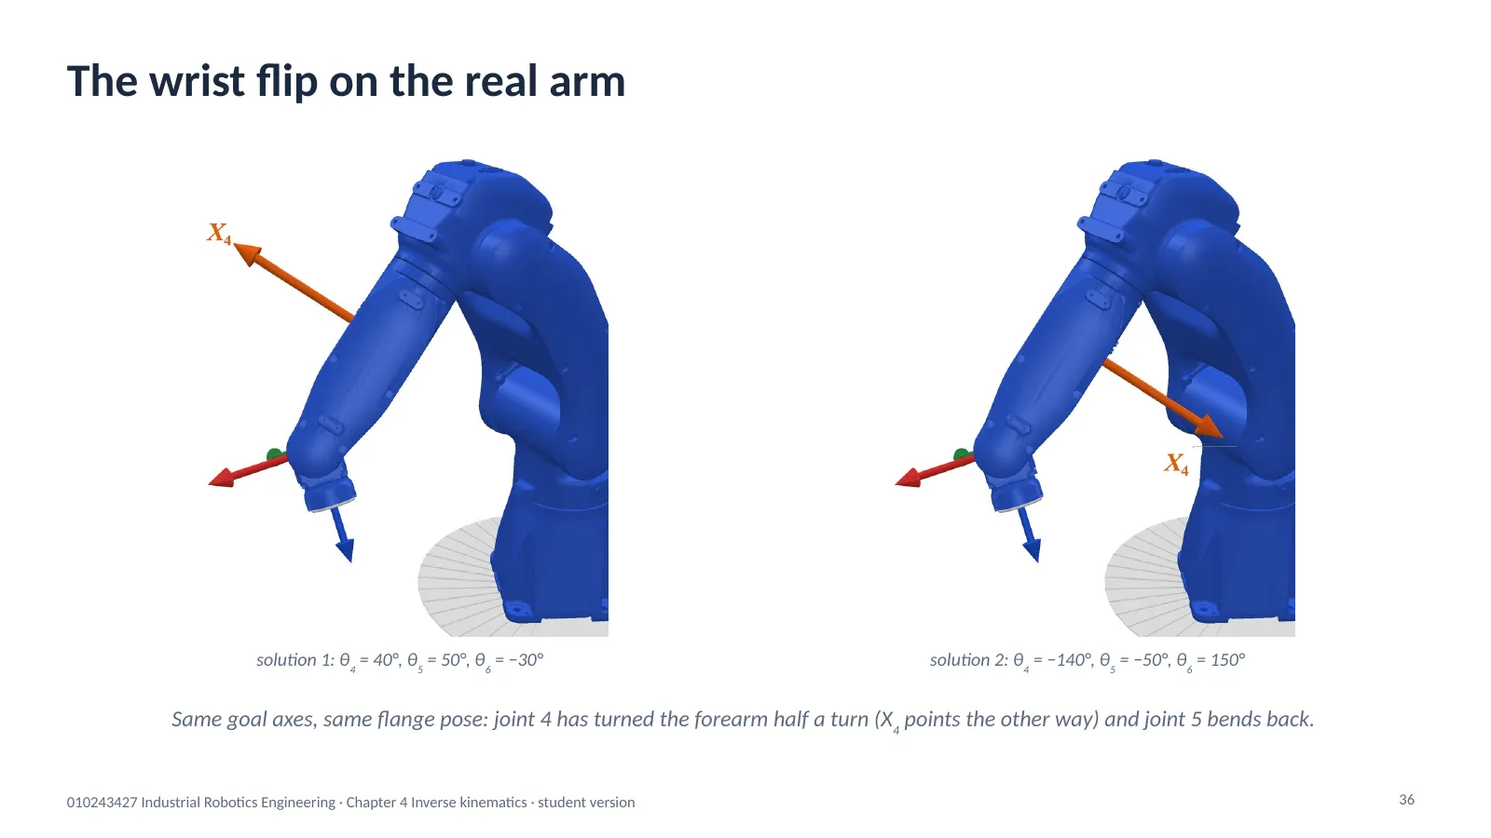
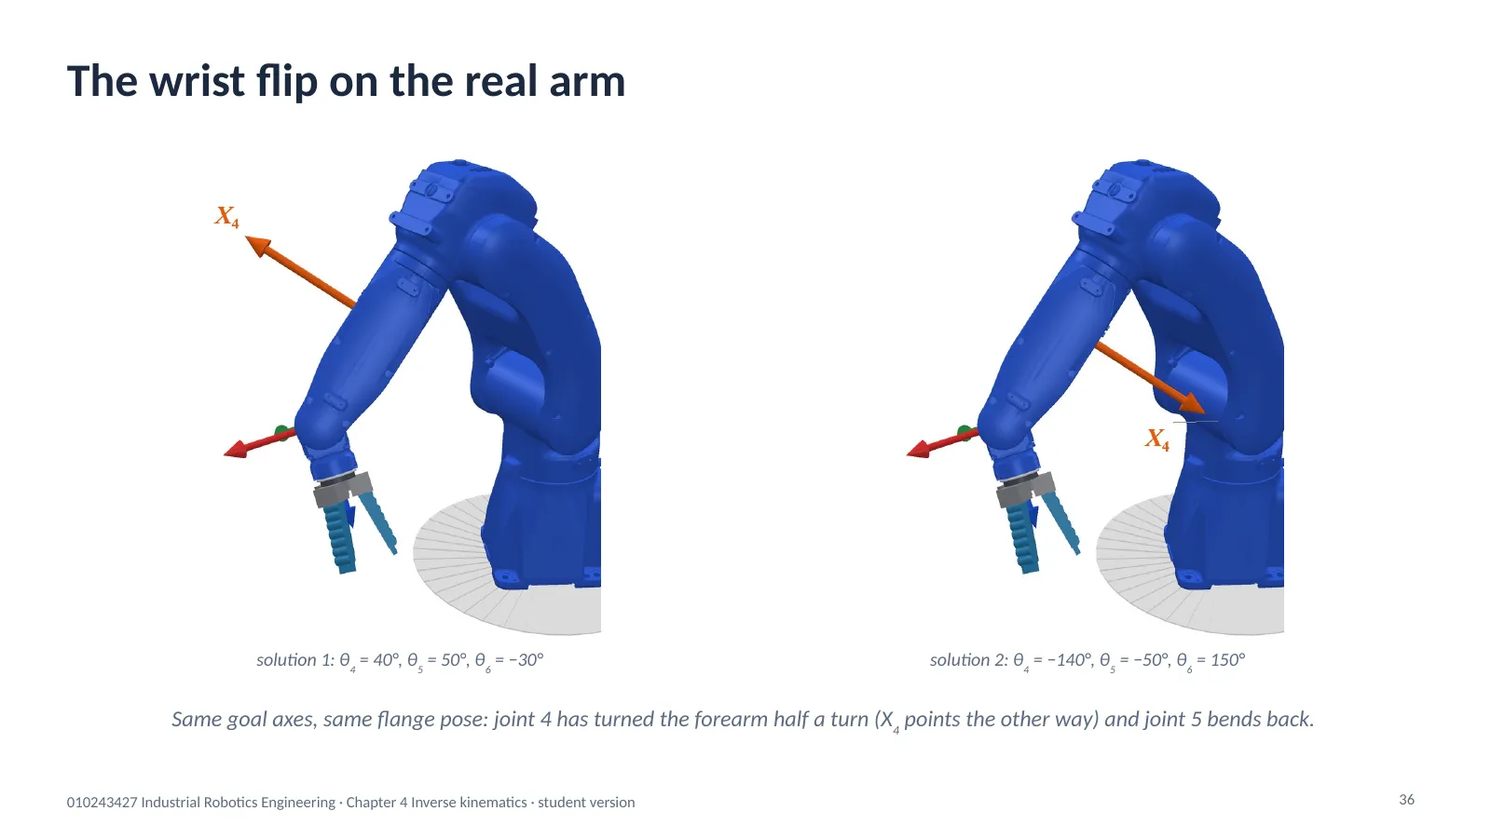
The GP8 carries a soft three-finger gripper
- scene3d.js: S3.softGrip, the course's own model of a soft gripper (grey
  holder, three blue bellows fingers; open, curl, size), shared by the live
  views and the slide renders
- the GP8 simulations of chapters 3 and 4 draw it instead of the two-finger
  gripper; on page 4.4 it ends at the tool point
- slide pictures of chapters 1, 2 and 4 re-exported: the GP8 with the gripper,
  the tool frame at the fingertips, a fifth end-effector on the chapter 1 slide
- tests: 203, ALL PASS; cache tag v=18

Changed region(s): [[0.125, 0.1867, 0.4062, 0.7778], [0.5938, 0.1867, 0.875, 0.7778]]

diff --git a/assets/scene3d.js b/assets/scene3d.js
@@ -56,6 +56,24 @@ S3.arcV = (s, o, r, a0, a1, c, tr = 0.005, n = 24) => tube(s, Array.from({ lengt
 const rj = S3.rj = (s, p, ax, o = {}) => { const r = o.r || 0.056, h = o.h || 0.07; cyl(s, v(p, ax, -h), v(p, ax, h), r, o.c || s.pal.joint, o.al); cyl(s, v(p, ax, -h - 0.012), v(p, ax, h + 0.012), r * 0.42, s.pal.cap, o.al); };
 S3.pj = (s, p, d, o = {}) => box(s, v(p, d, -(o.len || 0.075)), v(p, d, o.len || 0.075), o.w || 0.085, o.w || 0.085, s.pal.sleeve, o.al, o.up);
 const grip = S3.grip = (s, p, d, sd, o = {}) => { const w = o.w || 0.045, L = o.L || 0.085, c = o.c || s.pal.ink, a = v(p, sd, -w), b = v(p, sd, w); box(s, a, b, 0.024, 0.03, c, o.al); [a, b].forEach(q => box(s, q, v(q, d, L), 0.018, 0.03, c, o.al)); };
+/* a soft gripper: three air-driven bellows fingers on a grey holder (the user asked for this kind on the GP8, 15 Nov 2026), built from boxes and cylinders.
+   p the mounting point (centre of the flange), d the tool direction, sd any direction across it. o.k size (1 = tool point 0.12 m from p),
+   o.n fingers, o.open splay of the fingers outwards in degrees, o.curl bend of each finger towards the axis in degrees (closing on a part),
+   o.tip: p is the tool point between the fingertips instead of the mounting point, o.al see-through. Returns { mount, tip }. */
+const SOFT = S3.SOFT = { blue: [0.15, 0.46, 0.65], grey: [0.5, 0.51, 0.53], dark: [0.27, 0.29, 0.32], LEN: 0.12 };
+S3.softGrip = (s, p, d, sd, o = {}) => { const k = o.k || 1, n = o.n || 3, al = o.al, op = rad(o.open === undefined ? 12 : o.open), cu = rad(o.curl || 0) , N = 7;
+  d = un(d); const e1 = un(cr(cr(d, sd), d)), e2 = cr(d, e1), H = 0.034 * k, R = 0.027 * k, Lf = 0.088 * k, sg = Lf / N, wd = 0.024 * k, th = 0.012 * k, m = o.tip ? v(p, d, -SOFT.LEN * k) : p;
+  cyl(s, m, v(m, d, 0.008 * k), 0.026 * k, SOFT.dark, al); cyl(s, v(m, d, 0.008 * k), v(m, d, 0.024 * k), 0.02 * k, SOFT.grey, al);   // adapter plate on the flange, hub
+  for (let i = 0; i < n; i++) { const a = 2 * PI * i / n + rad(o.turn || 0), out = [0, 1, 2].map(j => e1[j] * cos(a) + e2[j] * sin(a)), side = cr(d, out);
+    box(s, v(m, d, 0.016 * k), v(v(m, d, 0.016 * k), out, R), 0.022 * k, 0.016 * k, SOFT.grey, al, d);                                // arm from the hub to the finger holder
+    box(s, v(v(m, d, 0.008 * k), out, R + 0.002 * k), v(v(m, d, H), out, R + 0.002 * k), 0.036 * k, 0.031 * k, SOFT.grey, al, out);                             // the holder: a grey block over the finger's root
+    let q = v(v(m, d, H), out, R), t = [0, 1, 2].map(j => d[j] * cos(op) + out[j] * sin(op)), nn = [0, 1, 2].map(j => out[j] * cos(op) - d[j] * sin(op));
+    for (let j = 0; j < N; j++) { const b = v(q, t, sg), mid = v(q, t, sg / 2), f = 1 - 0.32 * j / N, top = v(mid, nn, th * f * 0.5);
+      box(s, q, b, wd, th * f, SOFT.blue, al, nn);                                                                                    // the flat inner strip that touches the part
+      cyl(s, v(top, side, -wd / 2), v(top, side, wd / 2), sg * 0.5 * f + 0.002 * k, SOFT.blue, al);                                 // one fold of the bellows on the outer side
+      q = b; if (cu) { const c = cu / N, t2 = [0, 1, 2].map(i2 => t[i2] * cos(c) - nn[i2] * sin(c)); nn = [0, 1, 2].map(i2 => nn[i2] * cos(c) + t[i2] * sin(c)); t = t2; } }
+    box(s, q, v(q, t, 0.012 * k), wd, th * 0.55, SOFT.blue, al, nn); }                                                                // the fingertip pad
+  return { mount: m, tip: v(m, d, SOFT.LEN * k) }; };
 const pedestal = S3.pedestal = (s, p, h, r = 0.085) => { cyl(s, [p[0], p[1], 0], [p[0], p[1], 0.03], r * 1.7, s.pal.base); cyl(s, [p[0], p[1], 0.03], [p[0], p[1], h], r * 0.75, s.pal.base); shadow(s, [p[0], p[1], 0.02], [p[0], p[1], 0.021], r * 1.7); };
 const mesh = S3.mesh = (s, quads, c, al) => { const vv = [], ii = []; quads.forEach(q => { const n = vv.length / 3; q.forEach(p => vv.push(p[0], p[1], p[2])); ii.push(n, n + 1, n + 2, n, n + 2, n + 3); }); if (ii.length) add(s, { t: 'mesh', v: vv, i: ii, c, al }); };
 /* a smooth surface: a grid of shared vertices, f(u, w) → point for u, w in 0…1 */

diff --git a/assets/ch3_3d.js b/assets/ch3_3d.js
@@ -30,7 +30,7 @@ const drawDH = CH3.drawDH = (s, rows, F, op = {}) => { const n = rows.length, fl
   fr.forEach(i => { const O = P(F[i]); [0, 2].concat(op.y ? [1] : []).forEach(j => { arrow(s, O, v(O, col(F[i], j), fl), axc(s, j), 0.0045);
       if (op.lab !== false) lab(s, v(O, col(F[i], j), fl + 0.04), 'XYZ'[j], { sub: String(i), m: 1, c: 'xyz'[j], s: op.ls || 28, a: 'c', dy: 10, ...((op.labAt && op.labAt[i] && op.labAt[i][j]) || {}) }); });
     sph(s, O, 0.011, s.pal.ink); if (op.tags) lab(s, O, `{${i}}`, { s: 26, a: 'r', dx: -12, dy: 30, ...((op.tagAt && op.tagAt[i]) || {}) }); });
-  if (op.grip) { const E = F[n], d = col(E, op.grip === 'z' ? 2 : 0), sd = col(E, 1); grip(s, P(E), d, sd, { w: 0.03, L: 0.06, al: op.al }); }
+  if (op.grip) { const E = F[n], d = col(E, op.grip === 'z' ? 2 : 0), sd = col(E, 1); if (op.soft) S3.softGrip(s, P(E), d, sd, { k: 0.8, al: op.al }); else grip(s, P(E), d, sd, { w: 0.03, L: 0.06, al: op.al }); }   // soft: the GP8's three-finger soft gripper
   if (op.show) { const k = op.show, r = rows[k - 1], Op = P(F[k - 1]), Xp = col(F[k - 1], 0), Zp = col(F[k - 1], 2), Ok = P(F[k]), Zk = col(F[k], 2), Xk = col(F[k], 0), Q = v(Op, Xp, r.a);
     const m1 = dim(s, Op, Q, C.am, RB.sc(Zp, -0.06)); if (m1) lab(s, m1, 'a', { sub: (k - 1) + '', m: 1, c: 'am', s: 34, a: 'c', dy: 36 });
     const m2 = dim(s, Q, Ok, C.p, RB.sc(Xp, -0.07)); if (m2) lab(s, m2, 'd', { sub: k + '', m: 1, c: 'p', s: 34, a: 'r', dx: -14 });
@@ -49,7 +49,7 @@ const EXV = { p3r: { T0: [0, 0, 0.11], cam: [[0.35, 0.3, 0.05], 3.0, -90, 58], g
   twist: { T0: [0, 0, 0.35], cam: [[0.3, 0.1, 0.4], 3.2, -62, 20], grip: 'x', base: true },
   arm4: { T0: [0, 0, 0], cam: [[0.35, 0.1, 0.45], 3.6, -62, 18], grip: 'x', base: false },
   scara: { T0: [0, 0, 0.6], cam: [[0.3, 0.15, 0.35], 3.4, -60, 22], grip: 'z', base: true },
-  gp8: { T0: [0, 0, 0.33], cam: [[0.22, 0, 0.5], 4.0, -60, 16], grip: 'z', base: true } };
+  gp8: { T0: [0, 0, 0.33], cam: [[0.22, 0, 0.5], 4.0, -60, 16], grip: 'z', soft: true, base: true } };
 CH3.EXV = EXV;   // chapter 4 shows the same arms
 /* the frames of example `ex` (CH3.EX) at joint values q, in world coordinates */
 CH3.exFrames = (ex, q, conv) => { const E = CH3.EX[ex === 'rprHW' ? 'rpr' : ex], L = E.L, rows = ex === 'rprHW' ? E.hwRows(L) : conv === 'c' ? E.rowsC(L) : E.rows(L), V = EXV[ex];
@@ -61,7 +61,7 @@ const armPts = (F, T0, grip) => { const E = F[F.length - 1], g = grip ? v(P(E), 
 SC.dh = (st = {}, o = {}) => { const ex = st.ex || 'p3r', V = EXV[ex], q = st.q || CH3.EX[ex === 'rprHW' ? 'rpr' : ex].q, c0 = V.cam, w = st.w || 1300, h = st.h || 1000;
   const { rows, F } = CH3.exFrames(ex, st.tool ? [...q, 0] : q, st.conv);   // st.fit (the pages): the camera follows the arm, which the sliders can swing anywhere
   const s = scene(st.name || 'dh_' + ex, w, h, st.fit ? camFit(st, armPts(F, V.T0, V.grip), c0[2], c0[3], w, h, { m: 0.16, minD: 2.4 }) : cam(st, c0[0], c0[1], c0[2], c0[3]), o); floor(s, 1.3, [c0[0][0], c0[0][1]]); if (V.base) pedestal(s, [V.T0[0], V.T0[1]], V.T0[2] - 0.02, 0.09);
-  drawDH(s, rows, F, { frames: st.frames, lab: st.lab, tags: !!st.tags, show: st.show, grip: st.grip === false ? null : V.grip, axes: st.axes, fl: st.fl, labAt: st.labAt, tagAt: st.tagAt, conv: st.conv, q });
+  drawDH(s, rows, F, { frames: st.frames, lab: st.lab, tags: !!st.tags, show: st.show, grip: st.grip === false ? null : V.grip, soft: V.soft, axes: st.axes, fl: st.fl, labAt: st.labAt, tagAt: st.tagAt, conv: st.conv, q });
   if (st.fk) { const On = P(F[F.length - 1]), O = P(F[0]); CH2.H.dvec(s, O, On, C.pk, { key: 'pk', t: 'T', pre: '0', sub: 'N', s: 38, at: 0.5, dx: 26, dy: 20, a: 'l', r: 0.0055 }); }
   if (st.xyz) s.tip = tipXYZ(s, F, st.xyzAt);   // the pages turn this on; the slide figures leave it off (the examples' answers are the tip position)
   s.F = F; s.rows = rows; return s; };

diff --git a/assets/ch4_3d.js b/assets/ch4_3d.js
@@ -19,7 +19,7 @@ const ARM = { rrp: { T0: [0, 0, 0], cam: [[0.3, 0.12, 0.42], 3.3, -58, 16], grip
 const armOf = (ex, q) => { if (ex === 'rrp') { const rows = CH4.rrp.rows(CH4.rrp.L); return { rows, F: CH3.frames(rows, q, null, RB.trans(0, 0, 0)), V: ARM.rrp }; }
   const r = CH3.exFrames(ex, q); return { ...r, V: EXV[ex] }; };
 const drawArm = (s, ex, q, op = {}) => { const { rows, F, V } = armOf(ex, q); if (V.base && !op.al) pedestal(s, [V.T0[0], V.T0[1]], V.T0[2] - 0.02, 0.09);
-  CH3.drawDH(s, rows, F, { frames: op.frames || [], lab: op.lab, grip: op.grip === false ? null : V.grip, al: op.al, q, fl: op.fl || 0.15, ls: op.ls || 26, labAt: op.labAt }); return F; };
+  CH3.drawDH(s, rows, F, { frames: op.frames || [], lab: op.lab, grip: op.grip === false ? null : V.grip, soft: V.soft, al: op.al, q, fl: op.fl || 0.15, ls: op.ls || 26, labAt: op.labAt }); return F; };
 /* the goal: a see-through pink ball where the last frame must go, named */
 const goalMark = (s, p, o = {}) => { sph(s, p, o.r || 0.034, C.pk, 0.35); lab(s, p, o.t || GOAL(), { c: 'pk', s: o.s || 26, dx: o.dx === undefined ? 30 : o.dx, dy: o.dy === undefined ? 44 : o.dy, b: true }); };
 
@@ -99,7 +99,8 @@ SC.hw = (st = {}, o = {}) => { const q = st.q || CH4.rrp.q, L = CH4.rrp.L, { F }
 /* ---- decoupling (Craig 4.6; old part 2): axes 4, 5, 6 of the GP8 meet at the wrist centre. With a tool L_T long, the wrist centre is the goal
    moved back L_T along its own Z: the first three joints place it, the last three turn the tool ---- */
 SC.wc = (st = {}, o = {}) => { const X0 = CH4.EX.solve, LT = st.LT === undefined ? X0.LT : st.LT, X = { ...X0, LT }, sw = CH4.gp8IK(RB.Tm(X0.G, RB.trans(0, 0, -LT))), ok = sw.filter(x => CH4.inLim(x.q)), pick = CH4.nearest(ok.length ? ok : sw, CH3.EX.gp8.home), q = st.q || (pick ? pick.s.q : X0.best.s.q), { F, V } = armOf('gp8', q), T0 = RB.trans(...V.T0), G = RB.Tm(T0, X.G), s = scene(st.name || 'wc', 1300, 1050, cam(st, [0.3, 0.06, 0.5], 2.5, -50, 14), o); floor(s, 1.4, [0.25, 0]);
-  drawArm(s, 'gp8', q, { frames: [0], grip: false }); const W = P(F[6]), Z6 = col(F[6], 2), Tt = v(W, Z6, X.LT); bar(s, W, Tt, 0.012, s.pal.joint); grip(s, Tt, Z6, col(F[6], 1), { w: 0.03, L: 0.05 });
+  drawArm(s, 'gp8', q, { frames: [0], grip: false }); const W = P(F[6]), Z6 = col(F[6], 2), Tt = v(W, Z6, X.LT), gk = Math.min(0.8, Math.max(0.25, X.LT / S3.SOFT.LEN));   // the soft gripper ends at the tool point; a short tool makes it smaller
+  const gm = S3.softGrip(s, Tt, Z6, col(F[6], 1), { k: gk, tip: true }).mount; if (X.LT > S3.SOFT.LEN * gk + 1e-6) bar(s, W, gm, 0.012, s.pal.joint);
   frame(s, RB.TR(G), P(G), { name: 'G', L: 0.16, r: 0.0045, ls: 28, lab: [{ dx: 14 }, {}, { dx: 16, dy: 30 }] }); sph(s, W, 0.03, C.pk, 0.55);
   lab(s, W, T('จุดศูนย์กลางข้อมือ', 'wrist centre'), { c: 'pk', s: 26, dx: -36, dy: -36, a: 'r' }); lab(s, v(W, Z6, X.LT / 2), 'L', { sub: 'T', m: 1, s: 28, dx: 22, dy: 6 });
   lab(s, P(F[3]), T('ข้อต่อ 1–3 วางจุดศูนย์กลางข้อมือ', 'joints 1–3 place the wrist centre'), { c: 'b', s: 24, dx: 20, dy: 70, a: 'l' }); lab(s, W, T('ข้อต่อ 4–6 หมุนเครื่องมือ', 'joints 4–6 turn the tool'), { c: 'p', s: 24, dx: 40, dy: -64 });

diff --git a/assets/tests.js b/assets/tests.js
@@ -84,6 +84,12 @@ function ch3(T) {
     for (let k = 0; k < 100; k++) { const y = [170, 105, 130, 190, 135, 360].map(m => d2r((2 * rn() - 1) * m)), L = I.links(y), G6 = RB.Tm(T0, RB.fkDH(I.rows(), I.fromY(y))[6]), dd = (a, b) => Math.hypot(a[0] - b[0], a[1] - b[1], a[2] - b[2]);
       ep = Math.max(ep, dd(RB.Tp(L[4]), RB.Tp(G6))); ea = Math.max(ea, dd(RB.col(RB.TR(L[6]), 0), RB.col(RB.TR(G6), 2))); ex = Math.max(ex, dd(RB.col(RB.TR(L[6]), 2), RB.col(RB.TR(G6), 0))); }
     T('GP8: DH wrist centre = the robot description\'s, θ = (S, L − 90°, −U, −R, −B, −T)', ep, 0, 1e-12); T('GP8: Z6 = the flange axis of the description', ea, 0, 1e-12); T('GP8: X6 = the description\'s link_6 z axis (no offset on θ6)', ex, 0, 1e-12); }
+  /* the soft gripper drawn on the GP8 (scene3d.js): its tool point is 0.12 m × size from the mounting point along the tool direction */
+  if (global.S3 && global.S3.softGrip) { const S3 = global.S3, sc = S3.scene('t', 100, 100, S3.camAt([0, 0, 0], 1, 0, 0)), g = S3.softGrip(sc, [0.1, 0.2, 0.3], [0, 0, -2], [1, 0, 0], { k: 0.8 });
+    T('soft gripper: tool point 0.096 m below the mount (size 0.8)', Math.hypot(g.tip[0] - 0.1, g.tip[1] - 0.2, g.tip[2] - (0.3 - 0.096)), 0, 1e-12);
+    const far = Math.max(...sc.items.map(o => Math.max(...[o.a, o.b].map(p => Math.hypot(p[0] - 0.1, p[1] - 0.2, p[2] - 0.3))))); T('soft gripper: every part within 0.115 m of the mount (size 0.8)', far < 0.115 ? 'yes' : 'no', 'yes');
+    const sc2 = S3.scene('t', 100, 100, S3.camAt([0, 0, 0], 1, 0, 0)), g2 = S3.softGrip(sc2, [0, 0, 0], [1, 0, 0], [0, 1, 0], { tip: true }); T('soft gripper: given the tool point, the mount is 0.12 m back', Math.hypot(g2.mount[0] + 0.12, g2.mount[1], g2.mount[2]), 0, 1e-12);
+    T('soft gripper: three fingers of seven folds each', sc.items.filter(o => o.t === 'cyl').length, 2 + 3 * 7, 0); }
   T('GP8: home (pendant all zero) puts the wrist centre at (0.380, 0, 0.385) in {0}', Math.hypot(I.T06(I.home)[0][3] - 0.38, I.T06(I.home)[2][3] - 0.385), 0, 1e-12);
   T('GP8: reach 0.040 + 0.345 + √(0.340² + 0.040²) = 0.727 m (data sheet)', I.a1 + I.a2 + Math.hypot(I.d4, I.a3), 0.727, 5e-4);
   /* the six-axis kinematic equations (Craig 3.7 method, GP8 numbers) against the product of the link transforms */

diff --git a/ch4_1_solvability.html b/ch4_1_solvability.html
@@ -8,9 +8,9 @@
 <link rel="stylesheet" href="https://cdnjs.cloudflare.com/ajax/libs/KaTeX/0.16.11/katex.min.css">
 <script defer src="https://cdnjs.cloudflare.com/ajax/libs/KaTeX/0.16.11/katex.min.js"></script>
 <script defer src="https://cdnjs.cloudflare.com/ajax/libs/KaTeX/0.16.11/contrib/auto-render.min.js"></script>
-<link rel="stylesheet" href="assets/ire.css?v=17">
-<script src="assets/stops.js?v=17"></script><script src="assets/shell.js?v=17"></script>
-<script src="assets/robot.js?v=17"></script><script src="assets/lesson.js?v=17"></script><script src="assets/ch2.js?v=17"></script><script src="assets/ch3.js?v=17"></script><script src="assets/ch4.js?v=17"></script><script src="assets/scene3d.js?v=17"></script><script src="assets/gl3d.js?v=17"></script><script src="assets/ch2_3d.js?v=17"></script><script src="assets/ch3_3d.js?v=17"></script><script src="assets/ch4_3d.js?v=17"></script>
+<link rel="stylesheet" href="assets/ire.css?v=18">
+<script src="assets/stops.js?v=18"></script><script src="assets/shell.js?v=18"></script>
+<script src="assets/robot.js?v=18"></script><script src="assets/lesson.js?v=18"></script><script src="assets/ch2.js?v=18"></script><script src="assets/ch3.js?v=18"></script><script src="assets/ch4.js?v=18"></script><script src="assets/scene3d.js?v=18"></script><script src="assets/gl3d.js?v=18"></script><script src="assets/ch2_3d.js?v=18"></script><script src="assets/ch3_3d.js?v=18"></script><script src="assets/ch4_3d.js?v=18"></script>
 </head>
 <body>
 <div class="wrap">

diff --git a/ch4_2_algebraic.html b/ch4_2_algebraic.html
@@ -8,9 +8,9 @@
 <link rel="stylesheet" href="https://cdnjs.cloudflare.com/ajax/libs/KaTeX/0.16.11/katex.min.css">
 <script defer src="https://cdnjs.cloudflare.com/ajax/libs/KaTeX/0.16.11/katex.min.js"></script>
 <script defer src="https://cdnjs.cloudflare.com/ajax/libs/KaTeX/0.16.11/contrib/auto-render.min.js"></script>
-<link rel="stylesheet" href="assets/ire.css?v=17">
-<script src="assets/stops.js?v=17"></script><script src="assets/shell.js?v=17"></script>
-<script src="assets/robot.js?v=17"></script><script src="assets/lesson.js?v=17"></script><script src="assets/ch2.js?v=17"></script><script src="assets/ch3.js?v=17"></script><script src="assets/ch4.js?v=17"></script><script src="assets/scene3d.js?v=17"></script><script src="assets/gl3d.js?v=17"></script><script src="assets/ch2_3d.js?v=17"></script><script src="assets/ch3_3d.js?v=17"></script><script src="assets/ch4_3d.js?v=17"></script>
+<link rel="stylesheet" href="assets/ire.css?v=18">
+<script src="assets/stops.js?v=18"></script><script src="assets/shell.js?v=18"></script>
+<script src="assets/robot.js?v=18"></script><script src="assets/lesson.js?v=18"></script><script src="assets/ch2.js?v=18"></script><script src="assets/ch3.js?v=18"></script><script src="assets/ch4.js?v=18"></script><script src="assets/scene3d.js?v=18"></script><script src="assets/gl3d.js?v=18"></script><script src="assets/ch2_3d.js?v=18"></script><script src="assets/ch3_3d.js?v=18"></script><script src="assets/ch4_3d.js?v=18"></script>
 </head>
 <body>
 <div class="wrap">

diff --git a/ch4_3_geometric.html b/ch4_3_geometric.html
@@ -8,9 +8,9 @@
 <link rel="stylesheet" href="https://cdnjs.cloudflare.com/ajax/libs/KaTeX/0.16.11/katex.min.css">
 <script defer src="https://cdnjs.cloudflare.com/ajax/libs/KaTeX/0.16.11/katex.min.js"></script>
 <script defer src="https://cdnjs.cloudflare.com/ajax/libs/KaTeX/0.16.11/contrib/auto-render.min.js"></script>
-<link rel="stylesheet" href="assets/ire.css?v=17">
-<script src="assets/stops.js?v=17"></script><script src="assets/shell.js?v=17"></script>
-<script src="assets/robot.js?v=17"></script><script src="assets/lesson.js?v=17"></script><script src="assets/ch2.js?v=17"></script><script src="assets/ch3.js?v=17"></script><script src="assets/ch4.js?v=17"></script><script src="assets/scene3d.js?v=17"></script><script src="assets/gl3d.js?v=17"></script><script src="assets/ch2_3d.js?v=17"></script><script src="assets/ch3_3d.js?v=17"></script><script src="assets/ch4_3d.js?v=17"></script>
+<link rel="stylesheet" href="assets/ire.css?v=18">
+<script src="assets/stops.js?v=18"></script><script src="assets/shell.js?v=18"></script>
+<script src="assets/robot.js?v=18"></script><script src="assets/lesson.js?v=18"></script><script src="assets/ch2.js?v=18"></script><script src="assets/ch3.js?v=18"></script><script src="assets/ch4.js?v=18"></script><script src="assets/scene3d.js?v=18"></script><script src="assets/gl3d.js?v=18"></script><script src="assets/ch2_3d.js?v=18"></script><script src="assets/ch3_3d.js?v=18"></script><script src="assets/ch4_3d.js?v=18"></script>
 </head>
 <body>
 <div class="wrap">

diff --git a/ch4_4_six_axis.html b/ch4_4_six_axis.html
@@ -8,9 +8,9 @@
 <link rel="stylesheet" href="https://cdnjs.cloudflare.com/ajax/libs/KaTeX/0.16.11/katex.min.css">
 <script defer src="https://cdnjs.cloudflare.com/ajax/libs/KaTeX/0.16.11/katex.min.js"></script>
 <script defer src="https://cdnjs.cloudflare.com/ajax/libs/KaTeX/0.16.11/contrib/auto-render.min.js"></script>
-<link rel="stylesheet" href="assets/ire.css?v=17">
-<script src="assets/stops.js?v=17"></script><script src="assets/shell.js?v=17"></script>
-<script src="assets/robot.js?v=17"></script><script src="assets/lesson.js?v=17"></script><script src="assets/ch2.js?v=17"></script><script src="assets/ch3.js?v=17"></script><script src="assets/ch4.js?v=17"></script><script src="assets/scene3d.js?v=17"></script><script src="assets/gl3d.js?v=17"></script><script src="assets/ch2_3d.js?v=17"></script><script src="assets/ch3_3d.js?v=17"></script><script src="assets/ch4_3d.js?v=17"></script>
+<link rel="stylesheet" href="assets/ire.css?v=18">
+<script src="assets/stops.js?v=18"></script><script src="assets/shell.js?v=18"></script>
+<script src="assets/robot.js?v=18"></script><script src="assets/lesson.js?v=18"></script><script src="assets/ch2.js?v=18"></script><script src="assets/ch3.js?v=18"></script><script src="assets/ch4.js?v=18"></script><script src="assets/scene3d.js?v=18"></script><script src="assets/gl3d.js?v=18"></script><script src="assets/ch2_3d.js?v=18"></script><script src="assets/ch3_3d.js?v=18"></script><script src="assets/ch4_3d.js?v=18"></script>
 </head>
 <body>
 <div class="wrap">

diff --git a/tests.html b/tests.html
@@ -3,9 +3,9 @@
 <head>
 <meta charset="utf-8"><meta name="viewport" content="width=device-width, initial-scale=1">
 <title data-en="Numeric Tests">ชุดทดสอบตัวเลข</title>
-<link rel="stylesheet" href="assets/ire.css?v=17">
-<script src="assets/stops.js?v=17"></script><script src="assets/shell.js?v=17"></script>
-<script src="assets/robot.js?v=17"></script><script src="assets/ch1.js?v=17"></script><script src="assets/ch2.js?v=17"></script><script src="assets/ch3.js?v=17"></script><script src="assets/ch4.js?v=17"></script><script src="assets/scene3d.js?v=17"></script><script src="assets/ch1_3d.js?v=17"></script><script src="assets/ch2_3d.js?v=17"></script><script src="assets/ch3_3d.js?v=17"></script><script src="assets/tests.js?v=17"></script>
+<link rel="stylesheet" href="assets/ire.css?v=18">
+<script src="assets/stops.js?v=18"></script><script src="assets/shell.js?v=18"></script>
+<script src="assets/robot.js?v=18"></script><script src="assets/ch1.js?v=18"></script><script src="assets/ch2.js?v=18"></script><script src="assets/ch3.js?v=18"></script><script src="assets/ch4.js?v=18"></script><script src="assets/scene3d.js?v=18"></script><script src="assets/ch1_3d.js?v=18"></script><script src="assets/ch2_3d.js?v=18"></script><script src="assets/ch3_3d.js?v=18"></script><script src="assets/tests.js?v=18"></script>
 <style>.t-ok{color:var(--good)}.t-bad{color:var(--bad);font-weight:700}table.tbl td{font-family:"IBM Plex Mono",monospace;font-size:13px}</style>
 </head>
 <body>

diff --git a/ch3_1_link_parameters.html b/ch3_1_link_parameters.html
@@ -8,9 +8,9 @@
 <link rel="stylesheet" href="https://cdnjs.cloudflare.com/ajax/libs/KaTeX/0.16.11/katex.min.css">
 <script defer src="https://cdnjs.cloudflare.com/ajax/libs/KaTeX/0.16.11/katex.min.js"></script>
 <script defer src="https://cdnjs.cloudflare.com/ajax/libs/KaTeX/0.16.11/contrib/auto-render.min.js"></script>
-<link rel="stylesheet" href="assets/ire.css?v=17">
-<script src="assets/stops.js?v=17"></script><script src="assets/shell.js?v=17"></script>
-<script src="assets/robot.js?v=17"></script><script src="assets/lesson.js?v=17"></script><script src="assets/ch2.js?v=17"></script><script src="assets/ch3.js?v=17"></script><script src="assets/scene3d.js?v=17"></script><script src="assets/gl3d.js?v=17"></script><script src="assets/ch2_3d.js?v=17"></script><script src="assets/ch3_3d.js?v=17"></script>
+<link rel="stylesheet" href="assets/ire.css?v=18">
+<script src="assets/stops.js?v=18"></script><script src="assets/shell.js?v=18"></script>
+<script src="assets/robot.js?v=18"></script><script src="assets/lesson.js?v=18"></script><script src="assets/ch2.js?v=18"></script><script src="assets/ch3.js?v=18"></script><script src="assets/scene3d.js?v=18"></script><script src="assets/gl3d.js?v=18"></script><script src="assets/ch2_3d.js?v=18"></script><script src="assets/ch3_3d.js?v=18"></script>
 </head>
 <body>
 <div class="wrap">

diff --git a/ch3_2_link_transform.html b/ch3_2_link_transform.html
@@ -8,9 +8,9 @@
 <link rel="stylesheet" href="https://cdnjs.cloudflare.com/ajax/libs/KaTeX/0.16.11/katex.min.css">
 <script defer src="https://cdnjs.cloudflare.com/ajax/libs/KaTeX/0.16.11/katex.min.js"></script>
 <script defer src="https://cdnjs.cloudflare.com/ajax/libs/KaTeX/0.16.11/contrib/auto-render.min.js"></script>
-<link rel="stylesheet" href="assets/ire.css?v=17">
-<script src="assets/stops.js?v=17"></script><script src="assets/shell.js?v=17"></script>
-<script src="assets/robot.js?v=17"></script><script src="assets/lesson.js?v=17"></script><script src="assets/ch2.js?v=17"></script><script src="assets/ch3.js?v=17"></script><script src="assets/scene3d.js?v=17"></script><script src="assets/gl3d.js?v=17"></script><script src="assets/ch2_3d.js?v=17"></script><script src="assets/ch3_3d.js?v=17"></script>
+<link rel="stylesheet" href="assets/ire.css?v=18">
+<script src="assets/stops.js?v=18"></script><script src="assets/shell.js?v=18"></script>
+<script src="assets/robot.js?v=18"></script><script src="assets/lesson.js?v=18"></script><script src="assets/ch2.js?v=18"></script><script src="assets/ch3.js?v=18"></script><script src="assets/scene3d.js?v=18"></script><script src="assets/gl3d.js?v=18"></script><script src="assets/ch2_3d.js?v=18"></script><script src="assets/ch3_3d.js?v=18"></script>
 </head>
 <body>
 <div class="wrap">

diff --git a/ch3_3_examples.html b/ch3_3_examples.html
@@ -8,9 +8,9 @@
 <link rel="stylesheet" href="https://cdnjs.cloudflare.com/ajax/libs/KaTeX/0.16.11/katex.min.css">
 <script defer src="https://cdnjs.cloudflare.com/ajax/libs/KaTeX/0.16.11/katex.min.js"></script>
 <script defer src="https://cdnjs.cloudflare.com/ajax/libs/KaTeX/0.16.11/contrib/auto-render.min.js"></script>
-<link rel="stylesheet" href="assets/ire.css?v=17">
-<script src="assets/stops.js?v=17"></script><script src="assets/shell.js?v=17"></script>
-<script src="assets/robot.js?v=17"></script><script src="assets/lesson.js?v=17"></script><script src="assets/ch2.js?v=17"></script><script src="assets/ch3.js?v=17"></script><script src="assets/scene3d.js?v=17"></script><script src="assets/gl3d.js?v=17"></script><script src="assets/ch2_3d.js?v=17"></script><script src="assets/ch3_3d.js?v=17"></script>
+<link rel="stylesheet" href="assets/ire.css?v=18">
+<script src="assets/stops.js?v=18"></script><script src="assets/shell.js?v=18"></script>
+<script src="assets/robot.js?v=18"></script><script src="assets/lesson.js?v=18"></script><script src="assets/ch2.js?v=18"></script><script src="assets/ch3.js?v=18"></script><script src="assets/scene3d.js?v=18"></script><script src="assets/gl3d.js?v=18"></script><script src="assets/ch2_3d.js?v=18"></script><script src="assets/ch3_3d.js?v=18"></script>
 </head>
 <body>
 <div class="wrap">
